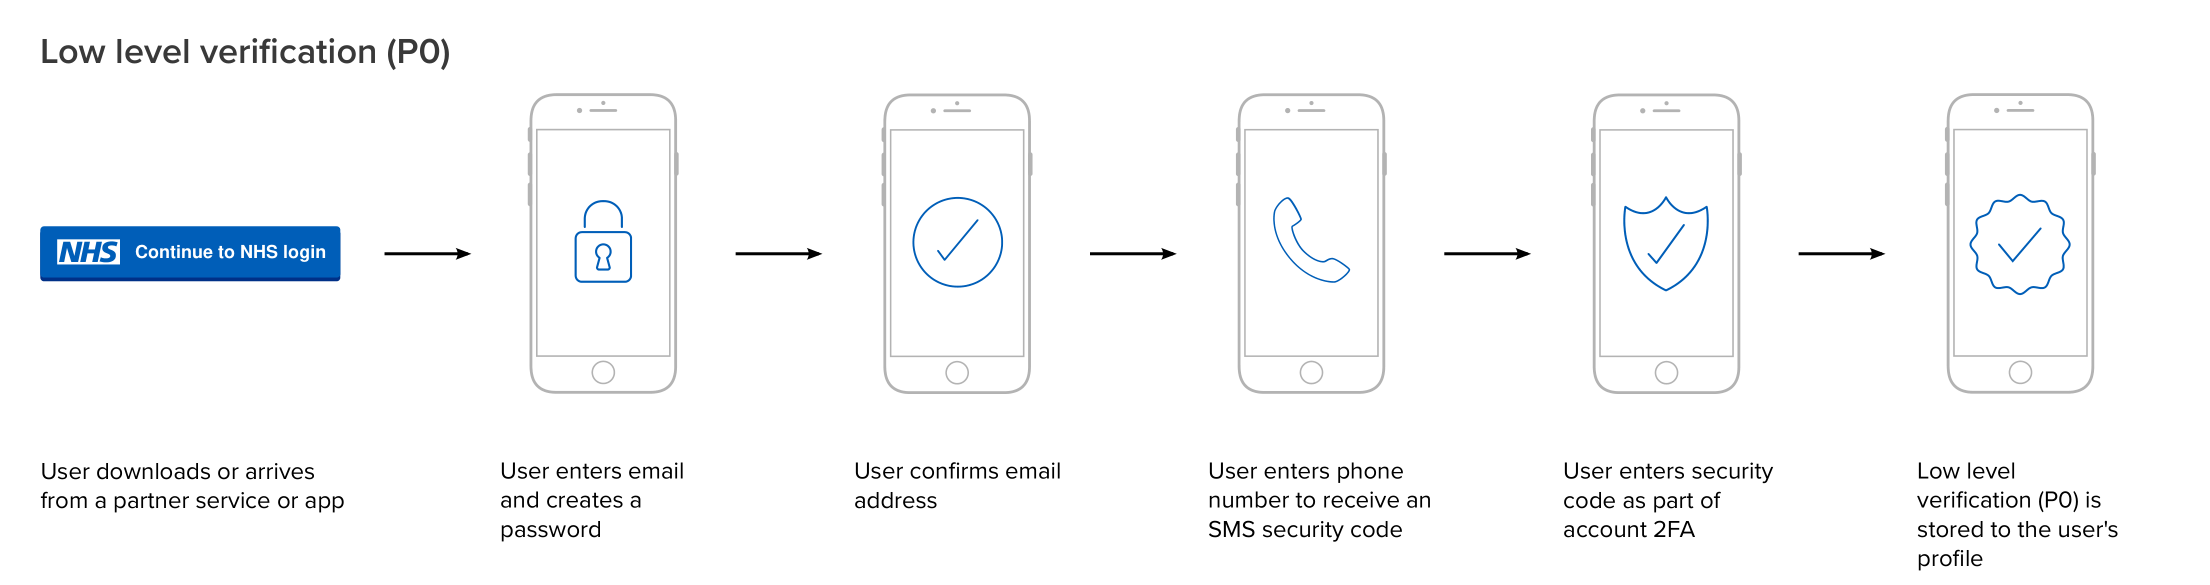
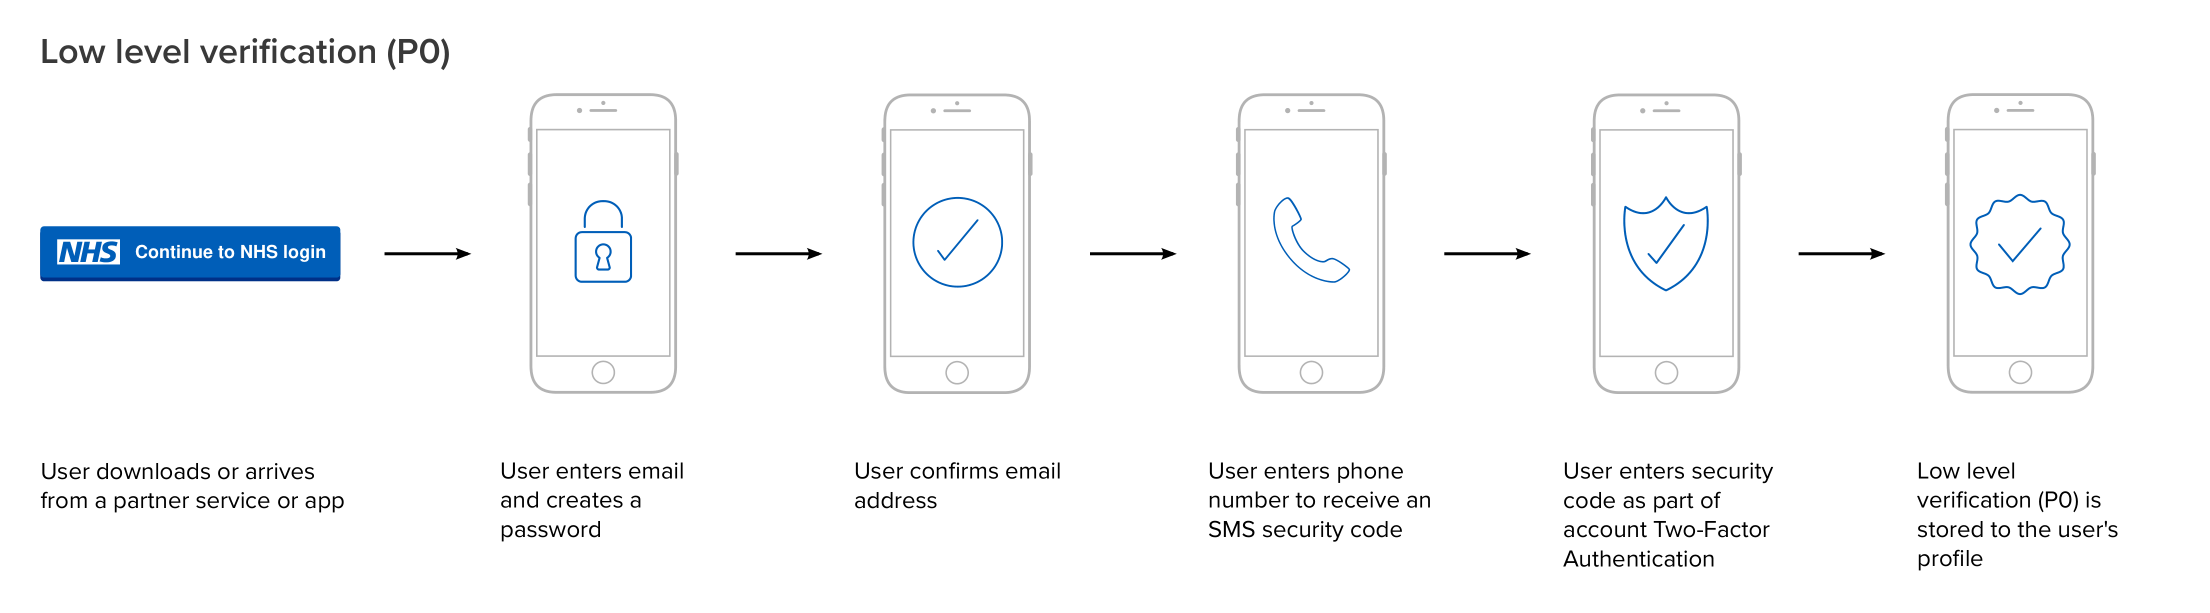
Automated deployment: Wed Nov  9 15:58:09 UTC 2022 7d3b9fe11873adeeda7ca29fd2f0d275812a6e02

diff --git a/user-journeys/index.html b/user-journeys/index.html
@@ -487,36 +487,23 @@
             </h1>
 
             <p>All of the NHS login user journeys start with the NHS login button on your website or app. These journeys cannot be changed or customised.</p>
-<div class="nhsuk-action-link">
-  <a class="nhsuk-action-link__link" href="/nhslogin/user-journeys/#p0">
-    <svg class="nhsuk-icon nhsuk-icon__arrow-right-circle" xmlns="http://www.w3.org/2000/svg" viewBox="0 0 24 24" aria-hidden="true" width="36" height="36">
-      <path d="M0 0h24v24H0z" fill="none"></path>
-      <path d="M12 2a10 10 0 0 0-9.95 9h11.64L9.74 7.05a1 1 0 0 1 1.41-1.41l5.66 5.65a1 1 0 0 1 0 1.42l-5.66 5.65a1 1 0 0 1-1.41 0 1 1 0 0 1 0-1.41L13.69 13H2.05A10 10 0 1 0 12 2z"></path>
-    </svg>
-    <span class="nhsuk-action-link__text">Low level verification (P0)</span>
-  </a>
-</div>
-<div class="nhsuk-action-link">
-  <a class="nhsuk-action-link__link" href="/nhslogin/user-journeys/#p5">
-    <svg class="nhsuk-icon nhsuk-icon__arrow-right-circle" xmlns="http://www.w3.org/2000/svg" viewBox="0 0 24 24" aria-hidden="true" width="36" height="36">
-      <path d="M0 0h24v24H0z" fill="none"></path>
-      <path d="M12 2a10 10 0 0 0-9.95 9h11.64L9.74 7.05a1 1 0 0 1 1.41-1.41l5.66 5.65a1 1 0 0 1 0 1.42l-5.66 5.65a1 1 0 0 1-1.41 0 1 1 0 0 1 0-1.41L13.69 13H2.05A10 10 0 1 0 12 2z"></path>
-    </svg>
-    <span class="nhsuk-action-link__text">Medium level verification (P5)</span>
-  </a>
-</div>
-<div class="nhsuk-action-link">
-  <a class="nhsuk-action-link__link" href="/nhslogin/user-journeys/#p9">
-    <svg class="nhsuk-icon nhsuk-icon__arrow-right-circle" xmlns="http://www.w3.org/2000/svg" viewBox="0 0 24 24" aria-hidden="true" width="36" height="36">
-      <path d="M0 0h24v24H0z" fill="none"></path>
-      <path d="M12 2a10 10 0 0 0-9.95 9h11.64L9.74 7.05a1 1 0 0 1 1.41-1.41l5.66 5.65a1 1 0 0 1 0 1.42l-5.66 5.65a1 1 0 0 1-1.41 0 1 1 0 0 1 0-1.41L13.69 13H2.05A10 10 0 1 0 12 2z"></path>
-    </svg>
-    <span class="nhsuk-action-link__text">High level verification (P9)</span>
-  </a>
-</div>
+<nav class="nhsuk-contents-list" role="navigation" aria-label="Pages in this guide">
+  <h2 class="nhsuk-u-visually-hidden">Contents</h2>
+  <ol class="nhsuk-contents-list__list">
+    <li class="nhsuk-contents-list__item">
+      <a class="nhsuk-contents-list__link" href="/nhslogin/user-journeys/#p0">Low level verification (P0)</a>
+    </li>
+    <li class="nhsuk-contents-list__item">
+      <a class="nhsuk-contents-list__link" href="/nhslogin/user-journeys/#p5">Medium level verification (P5)</a>
+    </li>
+    <li class="nhsuk-contents-list__item">
+      <a class="nhsuk-contents-list__link" href="/nhslogin/user-journeys/#p9">High level verification (P9)</a>
+    </li>
+  </ol>
+</nav>
 <hr>
 <h2 id="p0">Low level verification (P0)</h2>
-<p>Only the user’s email address and phone number are required to register for a service. Users can log in with an email address and password, with or without the need for an OTP.</p>
+<p>Only the user’s email address and phone number are required to register for a service. Users can log in with an email address and password, with or without the need for an OTP (one time password).</p>
 <div class="design-example">
   <a href="https://raw.githubusercontent.com/nhsconnect/nhslogin/main/src/images/Journey_P0.svg" class="design-example__pop-out" target="_blank">Open the P0 user journey in new window</a>
     <div class="code-embed">
@@ -559,7 +546,7 @@
               <div class="app-code-snippet__macro"></div>
               <div class="app-code-snippet__container">
               <ul>
-              <li>User identity not fully verified</li>
+              <li>User identity not verified</li>
                 <li>No NHS number </li>
                 <li>No checks with their NHS Personal Demographics Service (PDS) record, (held on Spine)</li>
                 <li>No GP surgery code (ODS code)</li>
@@ -581,8 +568,8 @@
 <hr>
 <h2 id="p5">Medium level verification (P5)</h2>
 <p>To gain a medium level verification, the user must first complete a low level verification journey.</p>
-<p>Users can contact their GP or receive notifications via email or SMS. Users can’t access medical records or personal information, nor should the user transfer sensitive or personal information. The Partner Service can’t disclose sensitive info or medical record data.</p>
-<p>This level of verification is just a claim identity. If a Partner Service wishes to use and rely on the user’s NHS number they need to request a high-level verification (P9).</p>
+<p>Users can’t access medical records or personal information, nor should the user transfer sensitive or personal information. The Partner Service can’t disclose sensitive info or medical record data.</p>
+<p>This level of verification is just a claimed identity. If a Partner Service wishes to use and rely on the user’s NHS number they need to request a high-level verification (P9).</p>
 <div class="design-example">
   <a href="https://raw.githubusercontent.com/nhsconnect/nhslogin/main/src/images/Journey_P5.png" class="design-example__pop-out" target="_blank">Open the P5 user journey in new window</a>
     <div class="code-embed">
@@ -612,7 +599,7 @@
               <div class="app-code-snippet__container">
               <ul>
               <li>User verified email and phone number</li>
-                <li>User verified their; date of birth, NHS number, full name – this information has been checked with their NHS Personal Demographics Service (PDS) record (held on Spine)</li>
+                <li>User verified date of birth, NHS number, first name and last name – this information has been checked with their NHS Personal Demographics Service (PDS) record (held on Spine)</li>
                 <li>User verified the area code of their postcode – this information has been checked with and ‘fuzzy matched’ to their NHS Personal Demographics Service (PDS) record (held on Spine)</li>
                 <li>GP surgery code (ODS code)</li>
                 </ul>
@@ -629,7 +616,7 @@
               <div class="app-code-snippet__macro"></div>
               <div class="app-code-snippet__container">
               <ul>
-              <li>User identity not fully verified</li>
+              <li>User identity based only on claimed credentials</li>
                 <li>No GP surgery online registration information (linkage key) – which allows access to medical records</li>
                 </ul>
               </div>
@@ -641,13 +628,16 @@
 <p>In addition to what users can do with low level verification (P0), users can also:</p>
 <ul>
 <li>Record (no read capability) non-medical data into record, e.g. record data-sharing opt-out preference or record preferred pharmacy (further controls will be needed around collection of controlled medications)</li>
+<li>Submit an online consultation to their GP</li>
+<li>Record medical data to submit to their GP or consultant - such as blood pressure readings</li>
+<li>Contact their GP or receive notifications via email or SMS</li>
 </ul>
 <hr>
 <h2 id="p9">High level verification (P9)</h2>
 <p>To gain a high level verification, the user must first complete a low and medium level verification journey.</p>
-<p>There are three ways in which a user can acquire high level verification (P9). The user cases and what the Partner Service gets are the same but the user journey is different.</p>
+<p>There are three ways in which a user can acquire high level verification (P9). The use cases and what the Partner Service gets are the same but the user journey is different.</p>
 <p>High level verification is needed when personal, confidential or sensitive information is being communicated either to or from the user. It is also required when the user can access their medical records e.g. GP record via a 3rd party – such as Co-op Health app, NHS App or TPP Airmid.</p>
-<p>IDVM is only available to P5 users who are registered for POL at their GP and their phone number matches the one against their GP record.</p>
+<p>Identity verification via mobile (IDVM) is only available to P5 users who are registered for Patient Online (POL) at their GP and their phone number matches the one against their GP record.</p>
 <div class="design-example">
     <a href="https://raw.githubusercontent.com/nhsconnect/nhslogin/main/src/images/Journey_P9_IDVM.png" class="design-example__pop-out" target="_blank">Open the P9 IDVM journey in new window</a>
     <div class="code-embed">
@@ -679,9 +669,9 @@
               <div class="app-code-snippet__macro"></div>
               <div class="app-code-snippet__container">
               <ul>
-                <li>User verified their email and phone number</li>
                 <li>User ID fully authenticated</li>
-                <li>User also verified their; date of birth, NHS number, full name and postcode – this information has been checked with their NHS Personal Demographics Service (PDS) record (held on Spine)</li>
+                <li>User verified email and phone number</li>
+                <li>User also verified date of birth, NHS number, first name, last name and postcode – this information has been checked with their NHS Personal Demographics Service (PDS) record (held on Spine)</li>
                 <li>GP surgery code (ODS code)</li>
                 <li>GP surgery online information (linkage key) – which allows access to medical records</li>
                 </ul>
@@ -697,8 +687,8 @@
 <li>Record medical data into private healthcare consultation record.</li>
 <li>Enable delegated access for another validated individual.</li>
 <li>Register for online account where treatment requires high level identity assurance or access to / adding to existing medical record.</li>
-<li>Record new phone number or new address online.</li>
-<li>Register patient to a new GP through a purely online mechanism.</li>
+<li>Record new phone number or new email address online.</li>
+<li>Submit a request to register at a new GP surgery.</li>
 </ul> 
 <hr>
 <p>Download the <a href="https://digital.nhs.uk/services/nhs-login/nhs-login-for-partners-and-developers/nhs-login-integration-toolkit/discovery#nhs-login-user-journey-visuals-presentation" target="_blank">NHS login User Journey Visuals presentation</a>.</p>
